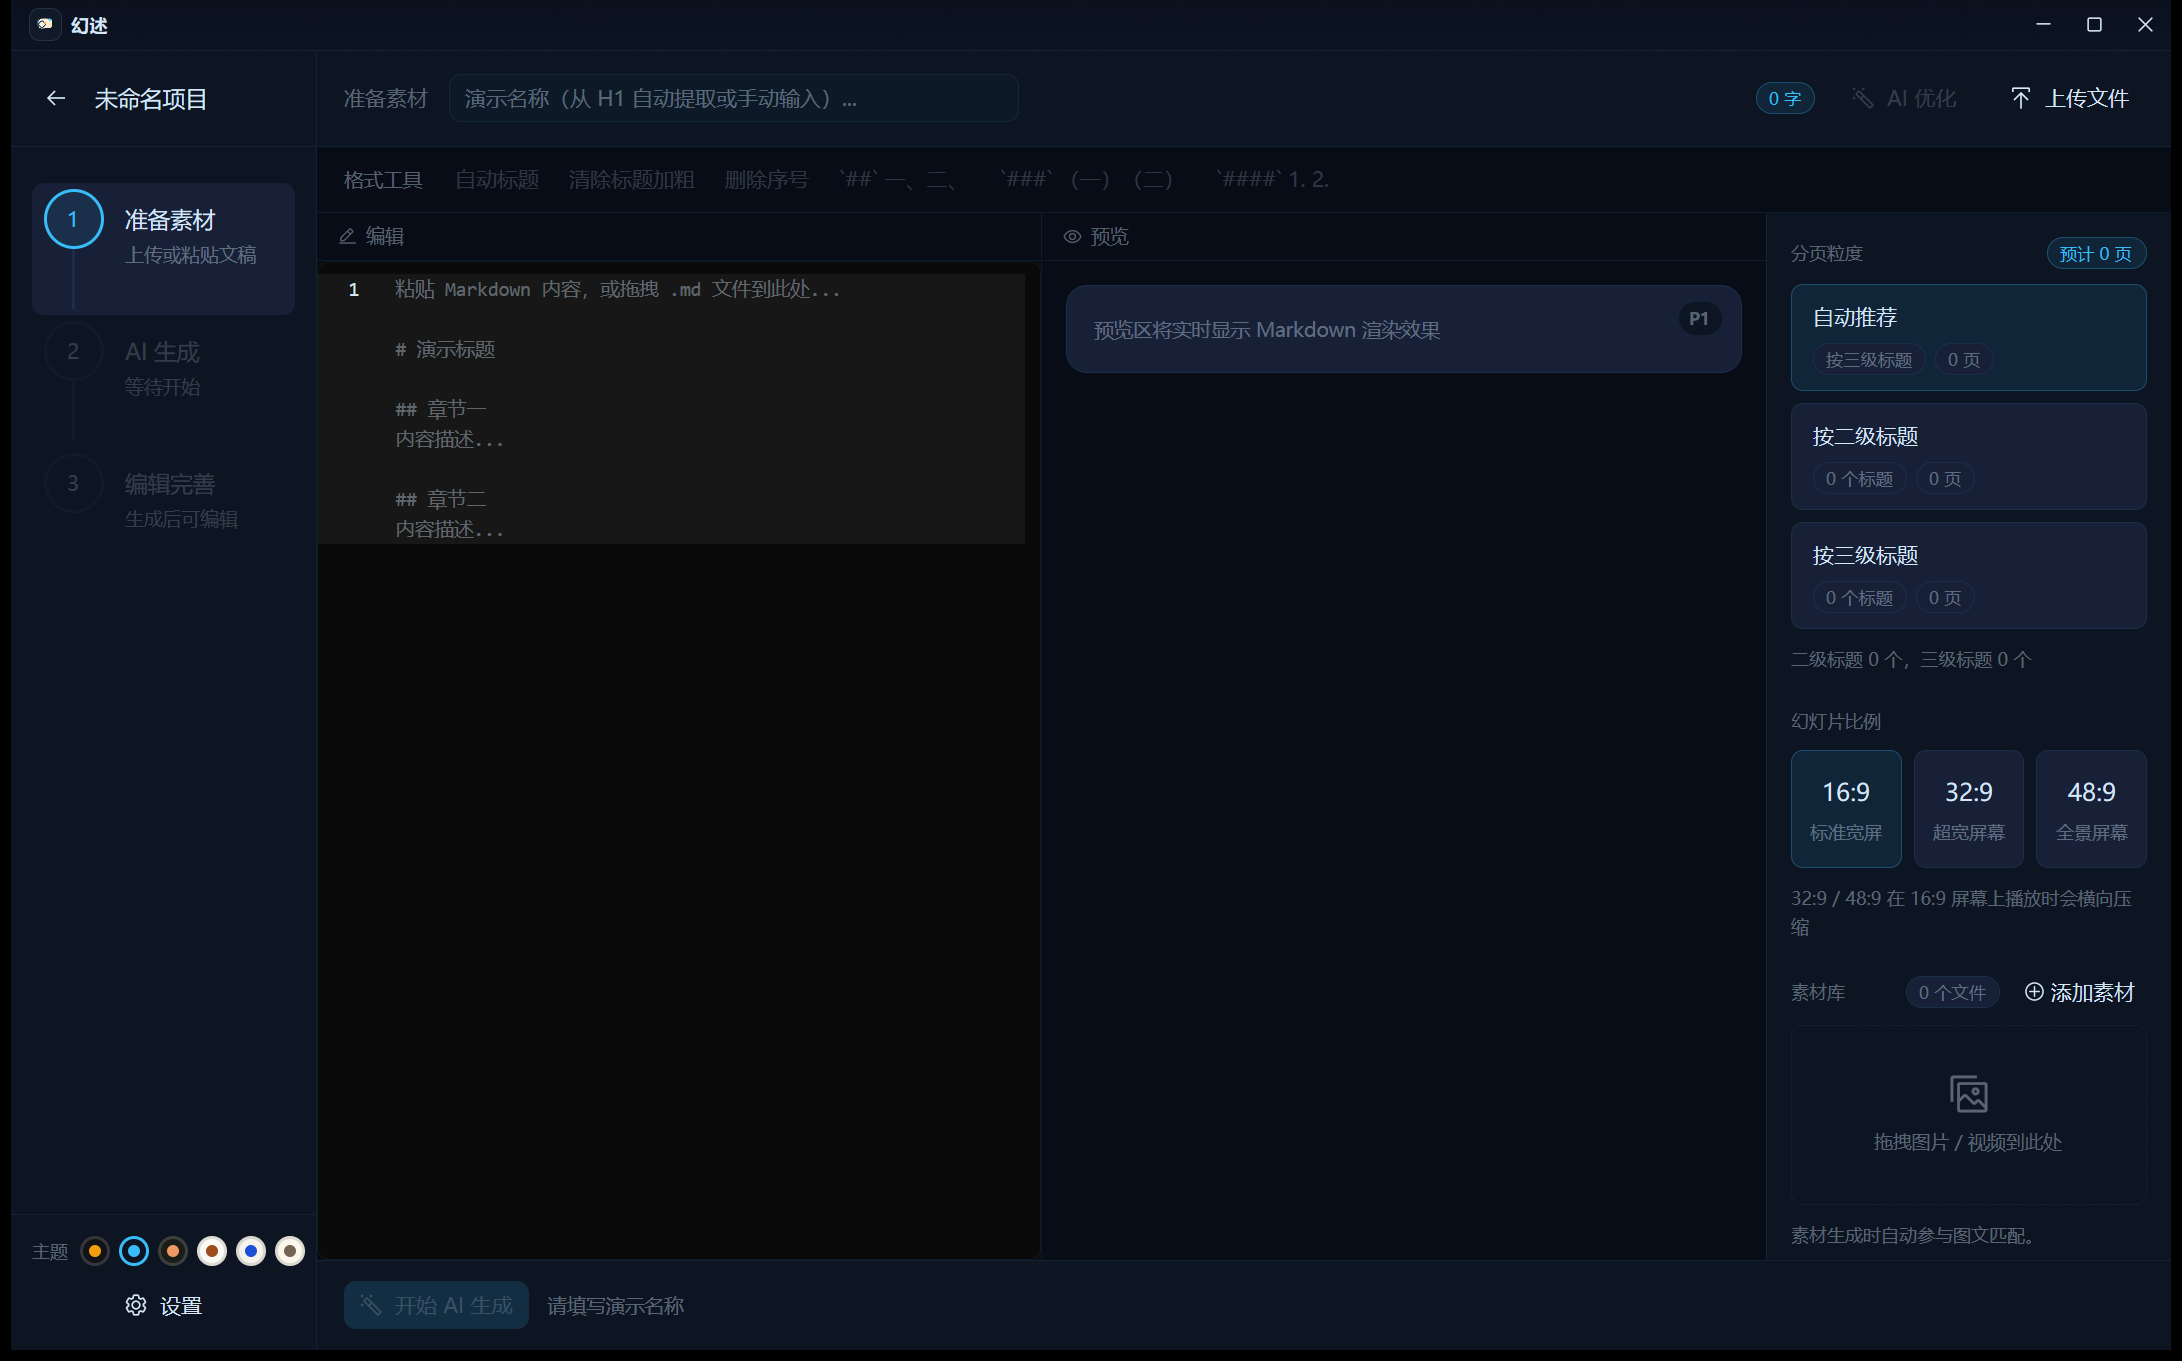
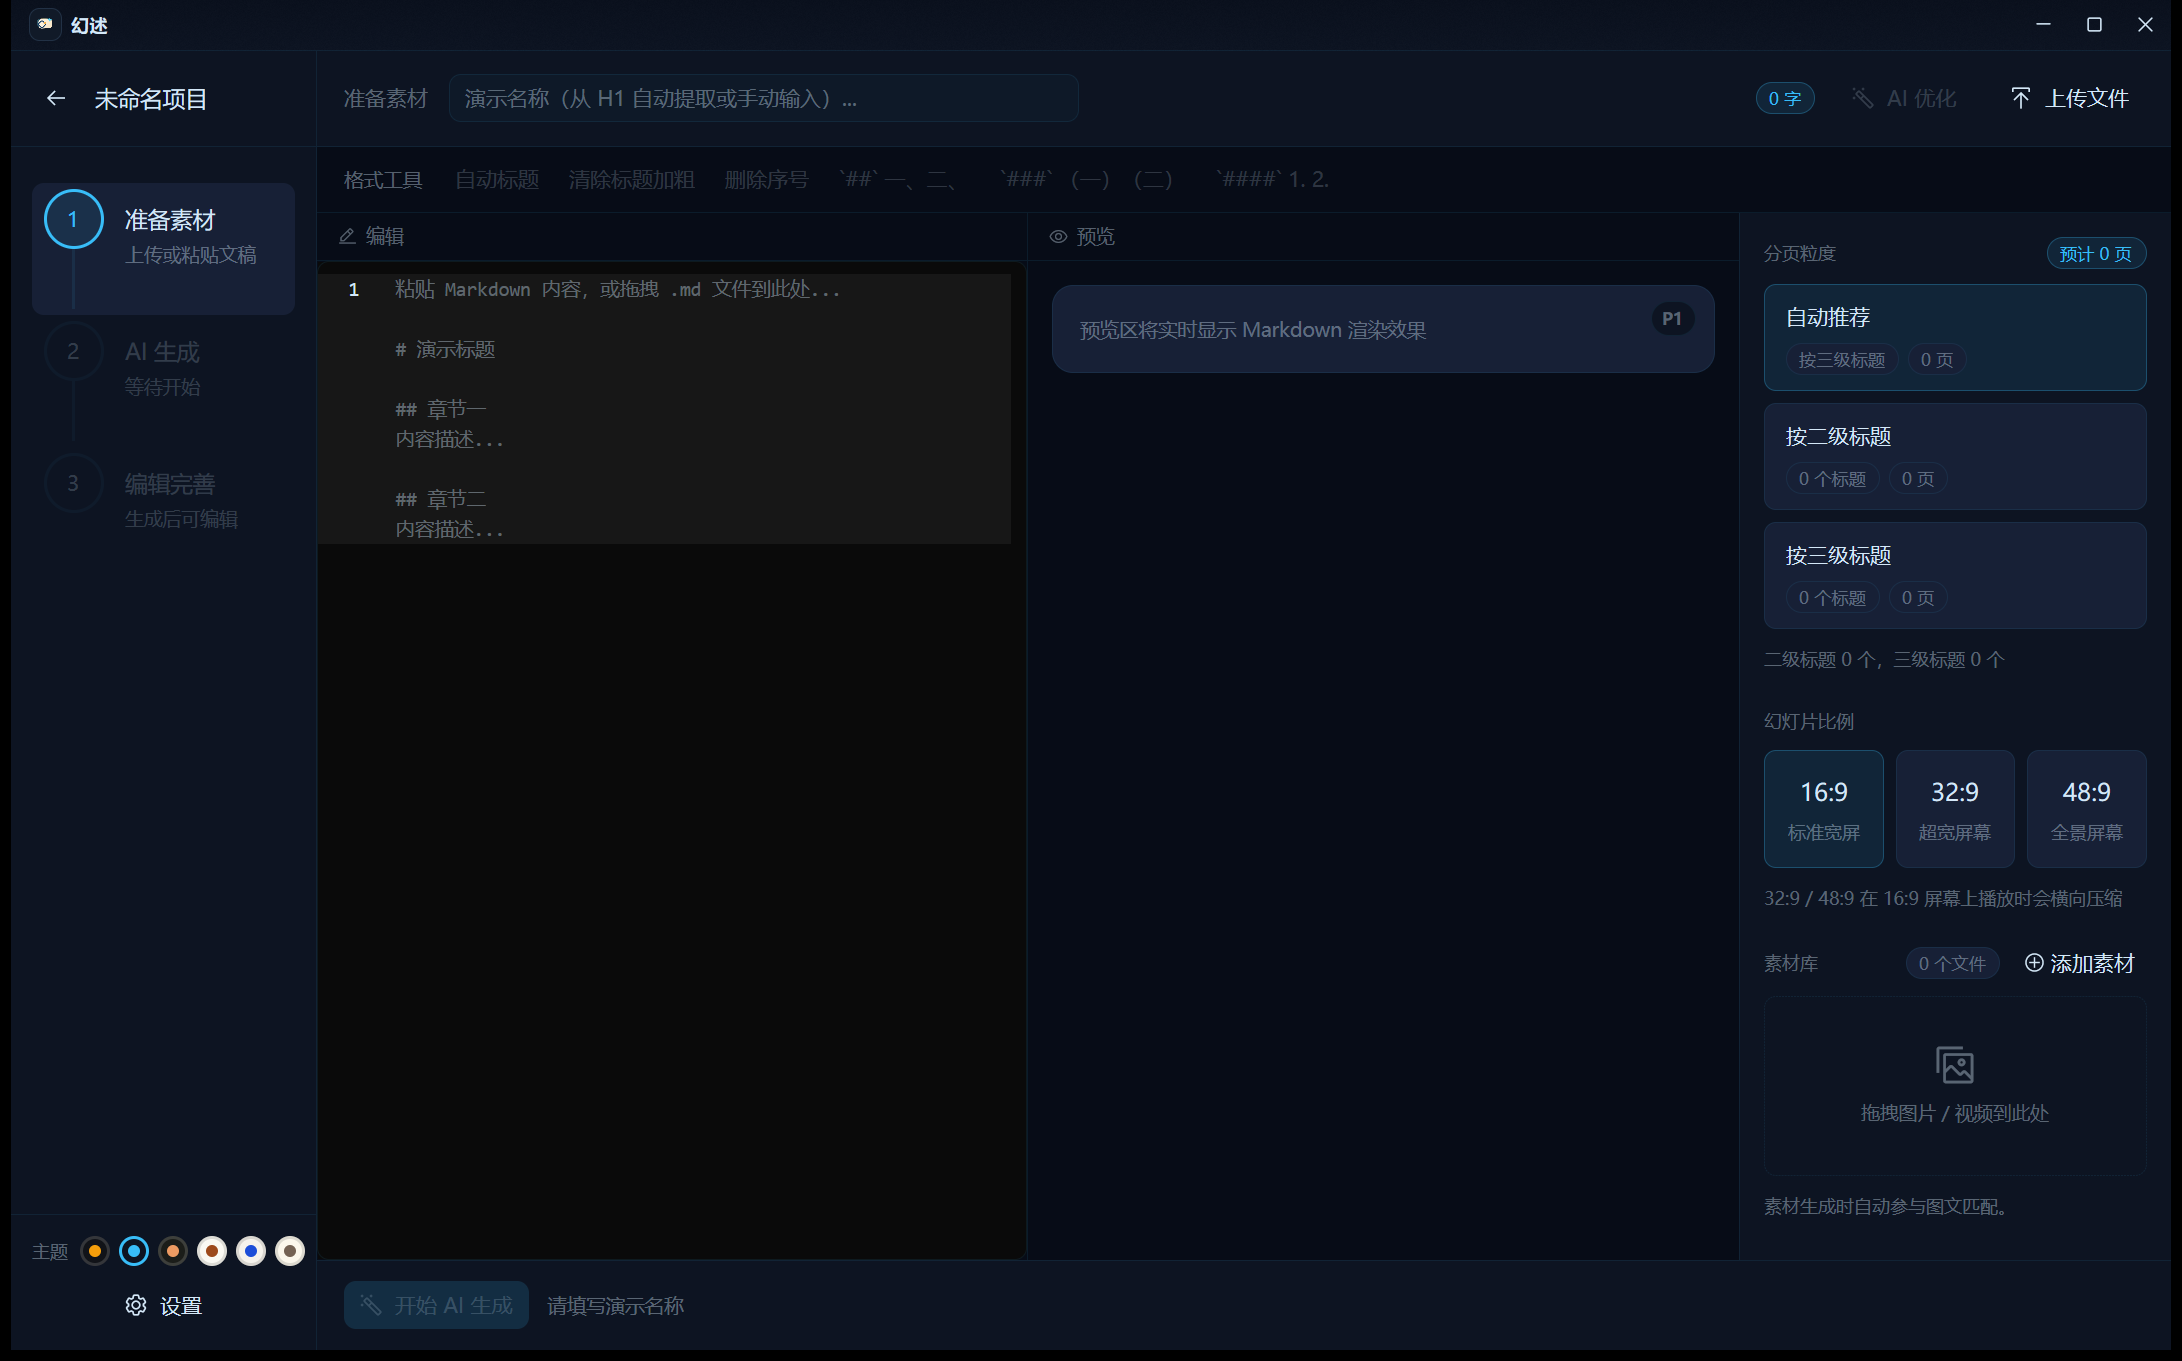
fix(native): GPUI timers for autosave and auto-advance; drop project meta on delete
- The 800ms draft autosave and the jump to step 3 slept on tokio while holding
  a tokio EnterGuard across `.await` on the UI thread; two overlapping waits
  release the guards out of order and tokio panics. Both use GPUI's
  background_executor().timer() now; CLAUDE.md records the rule.
- services::projects::delete_project also removes the project's step-1 meta
  (project_meta:<id>); new db::delete_app_setting and a regression test.
- Refreshed step 1 screenshots.

diff --git a/apps/huanshu-native/src/pages/workflow/mod.rs b/apps/huanshu-native/src/pages/workflow/mod.rs
@@ -399,10 +399,12 @@ impl WorkflowPage {
         self.autosave_task = None;
         let snapshot = DraftSnapshot::capture(self.model.read(cx));
         self.autosave_task = Some(cx.spawn_in(window, async move |this, window| {
-            {
-                let _guard = crate::tasks::tokio().enter();
-                tokio::time::sleep(std::time::Duration::from_millis(800)).await;
-            }
+            // GPUI 自己的计时器。不要在这里用 tokio 的 sleep：那要 `tokio().enter()`，而守卫跨 `.await`
+            // 留在 UI 线程上，两个计时同时在等时会乱序释放，tokio 直接 panic。
+            window
+                .background_executor()
+                .timer(std::time::Duration::from_millis(800))
+                .await;
             let _ = this.update_in(window, |this, window, cx| {
                 this.flush_draft(snapshot, window, cx);
             });
@@ -676,10 +678,10 @@ impl WorkflowPage {
                 // 原版 watch：完成且无失败页 800ms 后自动跳到第 3 步（用户已离开第 2 步则不跳）。
                 // 本轮没有页级失败状态跟踪，Ok 即视为无失败页。
                 self.advance_task = Some(cx.spawn_in(window, async move |this, window| {
-                    {
-                        let _guard = crate::tasks::tokio().enter();
-                        tokio::time::sleep(std::time::Duration::from_millis(800)).await;
-                    }
+                    window
+                        .background_executor()
+                        .timer(std::time::Duration::from_millis(800))
+                        .await;
                     let _ = this.update_in(window, |this, window, cx| {
                         if this.step == Step::Generate && !this.model.read(cx).generation_failed {
                             this.show_step(Step::Edit, window, cx);

diff --git a/crates/huanshu-core/src/services/projects.rs b/crates/huanshu-core/src/services/projects.rs
@@ -77,6 +77,8 @@ pub fn delete_project(state: &SharedState, id: i64) -> Result<()> {
         let st = state.lock().unwrap();
         let db = st.db.lock().unwrap();
         db::delete_project(&*db, id).map_err(|e| e.to_string())?;
+        // 第一步的附加信息（文件名、粒度、比例）随项目一起删。
+        db::delete_app_setting(&*db, &step1_meta_key(id)).map_err(|e| e.to_string())?;
     }
 
     let project_media_dir = PathBuf::from(&media_dir)
@@ -218,6 +220,20 @@ mod tests {
         };
         set_step1_project_meta(&state, 7, &next).unwrap();
         assert_eq!(get_step1_project_meta(&state, 7).unwrap(), Some(next));
+    }
+
+    #[test]
+    fn deleting_a_project_drops_its_step1_meta() {
+        let state = test_state();
+        let id = create_project(&state, "临时".to_string(), "# 临时".to_string()).unwrap();
+        let meta = Step1ProjectMeta {
+            md_filename: "a.md".to_string(),
+            granularity: "h2".to_string(),
+            aspect_ratio: "ratio_16x9".to_string(),
+        };
+        set_step1_project_meta(&state, id, &meta).unwrap();
+        delete_project(&state, id).unwrap();
+        assert_eq!(get_step1_project_meta(&state, id).unwrap(), None);
     }
 
     #[test]

diff --git a/crates/huanshu-core/src/db.rs b/crates/huanshu-core/src/db.rs
@@ -506,6 +506,11 @@ pub fn set_app_setting(conn: &Connection, key: &str, value: &str) -> Result<()> 
     Ok(())
 }
 
+pub fn delete_app_setting(conn: &Connection, key: &str) -> Result<()> {
+    conn.execute("DELETE FROM app_settings WHERE key = ?1", params![key])?;
+    Ok(())
+}
+
 pub fn is_first_run(conn: &Connection) -> Result<bool> {
     let configured = get_app_setting(conn, "storage_configured")?;
     Ok(configured.is_none())

diff --git a/CLAUDE.md b/CLAUDE.md
@@ -47,6 +47,8 @@ bootstrap 所在目录为目标。Tauri 版用 `.claude/launch.json` 的 `tauri-
   **每张不再显示的 `RenderImage` 都要 `drop_image`**，GPUI 不会回收图集。
 - `PreviewCache::set_deck` / `set_wanted` 只在内容真变了时才重新打开失败闸：界面每帧都会调用它们，无条件打开会让编译不过的牌组每帧重试。
 - 页面快捷键用 `track_focus` + `on_key_down`；**不要用 `observe_keystrokes`**（全应用的，会收到其他窗口和其他页面的按键）。
+- 界面里的延时（防抖、自动跳页）用 GPUI 的 `background_executor().timer(..)`，**不要用 `tokio::time::sleep`**：它需要
+  `tokio().enter()`，守卫跨 `.await` 留在 UI 线程上，两个计时同时在等就会乱序释放，tokio 直接 panic。tokio 只给 core 的 async 服务用（`tasks::run_async`）。
 - 演示是盖在当前页上的覆盖层（与原版一致），打开即全屏，Esc 先关全览再退出并退出全屏。
 - 主题存在 `app_settings` 的 `app_theme` 键，与 Tauri 版（WebView localStorage）暂不同步。
 - 量内存要量**本进程**：PowerShell 里的 `$PID` 是 PowerShell 自己。只读查看器阶段实测（release，5 分钟每 100ms 翻一页）工作集稳定在 385–412 MiB。
